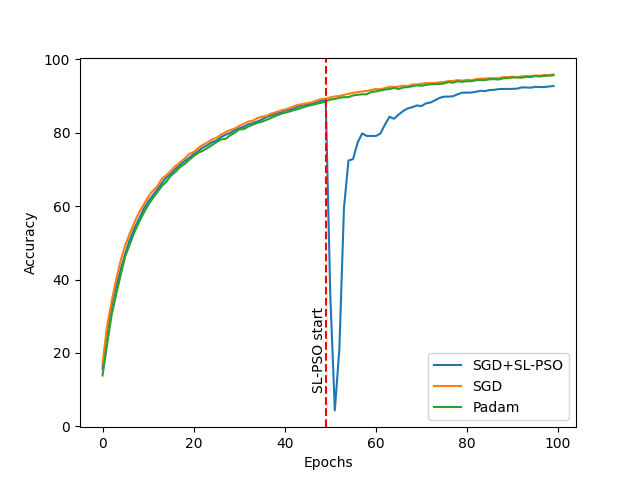
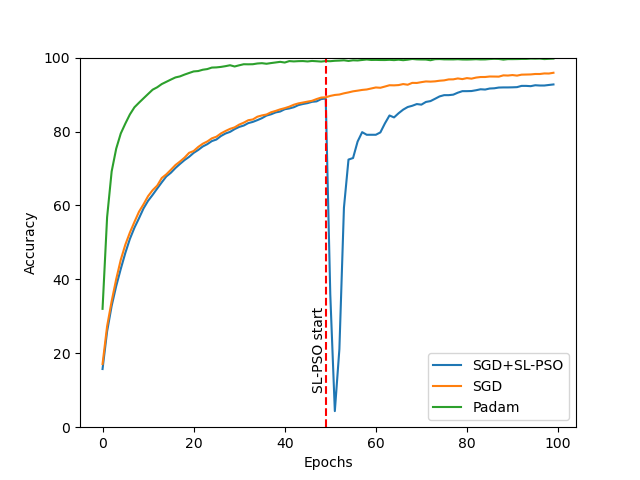
nsga just uses sgd progress from failed pso

diff --git a/data_interface/results_plotter.py b/data_interface/results_plotter.py
@@ -17,6 +17,23 @@ def get_stats(filename, headers):
 
     return stats
 
+def get_stats_tuning(filename, headers):
+    stats = {}
+
+    for header in headers:
+        stats[header] = []
+
+    with open(filename, "r") as file:
+        reader = csv.DictReader(file)
+
+        for row in reader:
+            for header in headers:
+                stats[header].append(row[header])
+
+        file.close()
+
+    return stats
+
 def display_axis2d(files, labels, headers, casts, join_axis=0):
     if len(headers) != 2:
         return
@@ -47,6 +64,7 @@ def display_axis2d(files, labels, headers, casts, join_axis=0):
 
     plt.xlabel("Epochs")
     plt.ylabel("Accuracy")
+    plt.ylim([0,100])
 
     for i in range(len(y_data)):
         plt.plot(x_data, y_data[i], label=labels[i])
@@ -59,7 +77,33 @@ def display_axis2d(files, labels, headers, casts, join_axis=0):
     plt.savefig(f'./models/results/{headers[(join_axis+1)%2]}.png')
     plt.show()
 
+def display_tuning(file_path, name, headers):
+    stats = get_stats_tuning(file_path, headers)
+
+    for key, value in stats.items():
+        if key != "Epoch":
+            stats[key] = [float(entry) for entry in value]
+        else:
+            stats[key] = [int(entry) for entry in value]
+    
+
+    plt.xlabel("Epochs")
+    plt.ylabel("Accuracy")
+    plt.ylim([0,100])
+
+
+    for header in headers[1:]:
+        plt.plot(stats["Epoch"], stats[header], label=header)
+
+    plt.legend(loc='lower right')
+
+    plt.savefig(f'./models/results/{name}.png')
+    plt.show()
+
+
 if __name__ == "__main__":
-    display_axis2d(["./models/logs/pso.csv", "./models/logs/sgd.csv", "./models/logs/padam_p_0.csv"], ["SGD+SL-PSO", "SGD", "Padam"],["Epoch", "Valid_Accuracy"], [int, float, float])
-    display_axis2d(["./models/logs/pso.csv", "./models/logs/sgd.csv", "./models/logs/padam_p_0.csv"], ["SGD+SL-PSO", "SGD", "Padam"],["Epoch", "Train_Accuracy"], [int, float, float])
+    display_axis2d(["./models/logs/pso.csv", "./models/logs/sgd.csv", "./models/logs/padam_best.csv"], ["SGD+SL-PSO", "SGD", "Padam"],["Epoch", "Valid_Accuracy"], [int, float, float])
+    display_axis2d(["./models/logs/pso.csv", "./models/logs/sgd.csv", "./models/logs/padam_best.csv"], ["SGD+SL-PSO", "SGD", "Padam"],["Epoch", "Train_Accuracy"], [int, float, float])
+    display_tuning("./models/logs/padam_tuning.csv", "padam_hyperparams_train", ["Epoch","TA0","TA0.125","TA0.2","TA0.25","TA0.375","TA0.5"])
+    display_tuning("./models/logs/padam_tuning.csv", "padam_hyperparams_valid", ["Epoch","VA0","VA0.125","VA0.2","VA0.25","VA0.375","VA0.5"])
             

diff --git a/train_nsga.py b/train_nsga.py
@@ -33,7 +33,8 @@ model.classifier.requires_grad_(False)
 
 sgd_crit = CrossEntropyLoss()
 
-model: EfficientNet = train_sgd(model=model, loader=loader, logger=sgd_logger, criterion=sgd_crit, device=device, epochs=SGD_EPOCHS, model_name=MODEL_NAME)
+# model: EfficientNet = train_sgd(model=model, loader=loader, logger=sgd_logger, criterion=sgd_crit, device=device, epochs=SGD_EPOCHS, model_name=MODEL_NAME)
+model.load_state_dict(torch.load("./models/final_effnet_pso.pth"))
 
 model.requires_grad_(False)
 
